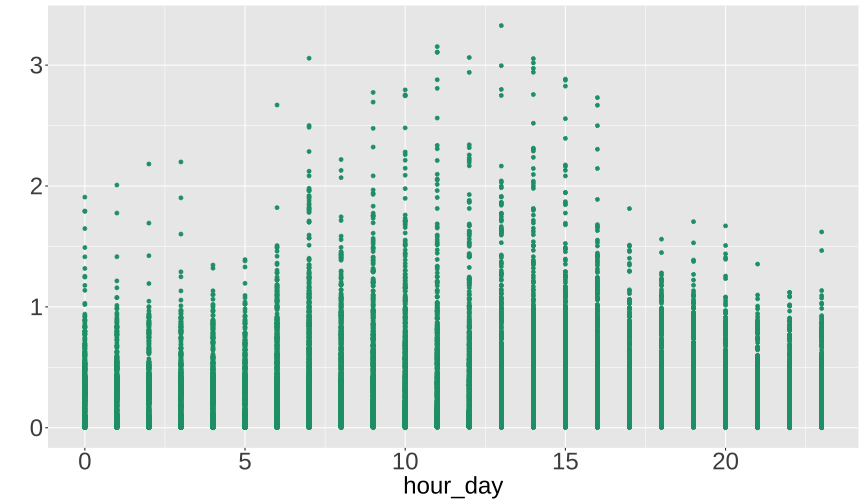
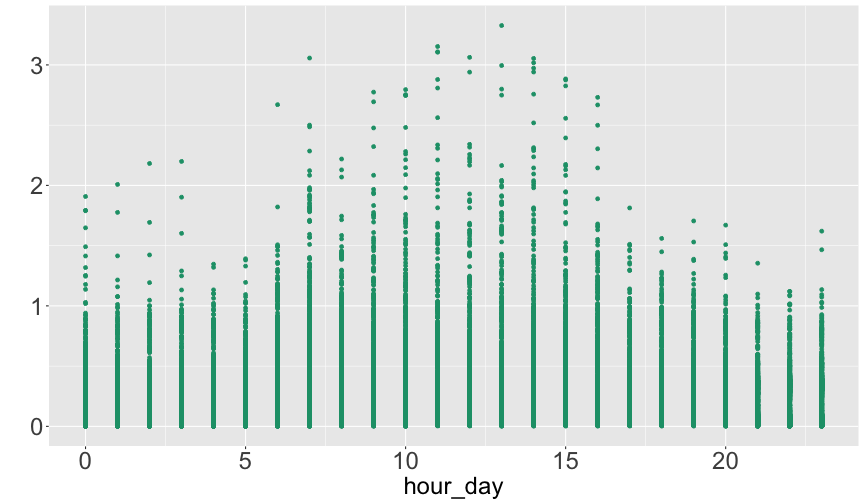
motivation slide fixed

diff --git a/index.html b/index.html
@@ -33,9 +33,11 @@ class: center, middle, inverse, title-slide
 
 
 
-# Motivation: Electricity smart meter data 
 
-&lt;img src="figs/motivation.png" width="2205" style="display: block; margin: auto;" /&gt;
+background-image: url("figs/motivation2.png")
+
+background-position: center
+background-size: contain
 
 ---
 # Time series of electricity demand for different households
@@ -539,16 +541,12 @@ class: top left
 - cluster validation through simulations and relating to external data like census and geography [Australian Bureau of Statistics](https://www.abs.gov.au/websitedbs/censushome.nsf/home/tablebuilder) along with weather from [Bureau of Meteorology](www.bom.gov.au)
 
 ---
-# Project 3: Preliminary exploration
-
-.smaller[
-_Getting to know the SGSC dataset using missingness/ number of observations/number of customers and their related information_
-]
+# Project 3: Preliminary exploration (Missingness)
 
 
 
-&lt;img src="figure/count-gaps-1.svg" width="80%" style="display: block; margin: auto;" /&gt;
 
+&lt;img src="figure/count-gaps-1.svg" width="90%" style="display: block; margin: auto;" /&gt;
 .smaller[
 .smaller[
 **_The missing data pattern for 100 households are shown. It looks like most missingness happens before 2013 and for a particular data in 2014._**
@@ -557,7 +555,7 @@ _Getting to know the SGSC dataset using missingness/ number of observations/numb
 .smaller[
 .smaller[
 .smaller[
-Wang, Earo, Dianne Cook, and Rob J. Hyndman. 2020. “A New Tidy Data Structure to Support Exploration and Modeling of Temporal Data.” Journal of Computational and Graphical Statistics
+_Wang, Earo, Dianne Cook, and Rob J. Hyndman. 2020. “A New Tidy Data Structure to Support Exploration and Modeling of Temporal Data.” Journal of Computational and Graphical Statistics_
 ]
 ]
 ]
@@ -623,6 +621,15 @@ Paper submitted to Journal of Computational and Graphical Statistics (JCGS)
 
 .right-column[
 .timeline.timeline-left.purple-flirt.timeline-with-arrows[
+
+.timeline-block[
+.arrow-right[
+.timeline-content[
+Paper tentatively accepted
+.timeline-date[
+2021/03
+]]]]
+
 
 .timeline-block[
 .arrow-right[
